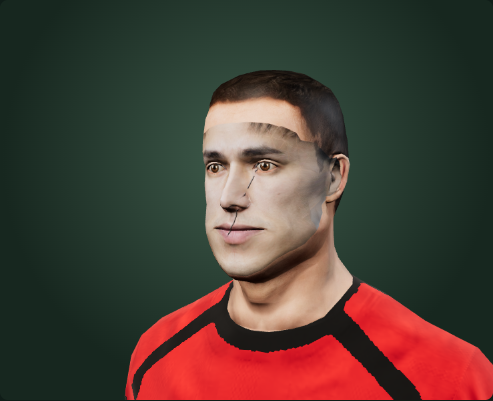
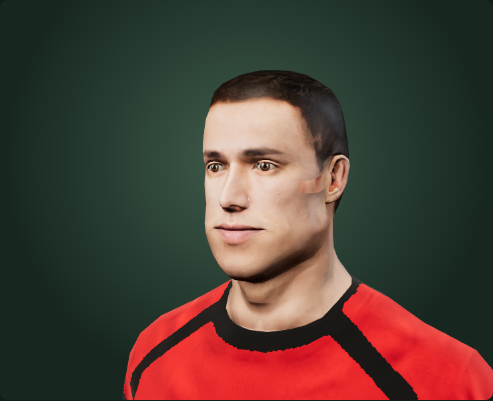
페이스온 삼각형 워핑: 검은 금·회색 얼굴·이마 머리카락·가면 테두리 수정
review 코멘트 4가지를 실제 화면에서 재현하며 고쳤다.

- 검은 금: 인접 삼각형을 독립적으로 clip하면서 경계에 서브픽셀 틈이 생겼다
  (무게중심 기준 1.25px 확장으로 겹쳐 그려 해결). 이와 별개로 일부 눈꺼풀
  랜드마크의 짝인 눈알 랜드마크가 머리 UV에서는 두상과 전혀 다른 별도의
  눈알 텍스처 조각으로 레이캐스트되어, 코 밑에서 화면 밖까지 이어지는 진짜
  가늘고 긴 삼각형이 생겼다(면적 배율 상한만으로는 못 잡음) -- 대상 변의
  길이 상한(N*.12)을 warpTriangles에 추가해 제외했다. 배경도 원본 머리
  텍스처 대신 기존 방식 합성 결과를 먼저 깔아, 제외된 자리에 사진과 무관한
  칠 대신 사진 정보가 있는 색이 비치게 했다.
- 회색 가면: 원인은 따로 있었다. ctx.filter='blur()'가 이 헤드리스 환경에서
  조용히 아무 효과도 내지 않아(에러 없음) 가장자리 마스크가 흐려지지 않은
  채 0/255 경계로 남았고, 그 결과 피부색 보정에 쓰는 경계 표본 구간이 항상
  비어 gain이 항상 1로 고정돼 사진 톤이 그대로 창백하게 보였다. drawImage
  스케일링도 같은 환경에서 보간이 전혀 안 되는 것을 확인해(둘 다 확인용
  테스트로 남기지 않고 코드로 우회), 캔버스 API에 의존하지 않는 순수 배열
  기반 박스 블러(face-uv.js boxBlur1ch)로 교체했다. 이제 경계 표본이 실제
  값을 갖고 채널별 gain이 정상 작동한다.
- 이마 머리카락: 468점 윤곽의 헤어라인 쪽 점을 눈썹 기준 이마 중간 높이로
  당겨 마스크 위쪽을 잘랐다(buildFaceMask).
- 가면 테두리: 마스크를 30px 안쪽으로 오프셋한 뒤 36px 박스 블러 3회로
  넓게 흐려, 옆모습에서도 경계가 오벌 안쪽에서 점진적으로 사라지게 했다.

tests/faces.test.mjs에 boxBlur1ch가 실제 그라디언트를 만드는지(0/255 두
값만 나오던 회귀 재현), 대상 변 길이 상한이 눈알-스와치 삼각형을 잡는지
회귀 테스트를 추가했다. npm test 338개 통과, npm run build 통과.
reports/human-v2/face-landmark-warp-after-*.png를 새 결과로 갱신.

diff --git a/src/human-kit.js b/src/human-kit.js
@@ -3,7 +3,7 @@
 // belongs to. Club colours, pattern, trims, numbers, name, sponsor and crest are applied in the shader, so every
 // club and player shares the same textures and one shader program.
 import * as THREE from 'three';
-import {warpTriangles} from './face-uv.js';
+import {warpTriangles,boxBlur1ch} from './face-uv.js';
 
 // Where each decal is drawn in the per-player canvas (x, y, w, h in pixels of a 512 x 512 canvas).
 const CELLS={backNumber:[0,256,200,256],backName:[0,0,512,128],sponsor:[0,128,256,128],crest:[256,128,128,128],shortsNumber:[384,128,128,128]};
@@ -180,34 +180,55 @@ function composePhotoHeadLegacy(headImage,atlasImage){
  g.putImageData(img,x0,y0);return c;
 }
 // MediaPipe's FACEMESH_FACE_OVAL, in boundary order (forehead, temples, cheeks, jaw, chin): the outer edge of
-// the triangulated warp's blend mask.
+// the triangulated warp's blend mask. Its topmost points sit at the hairline, which a real photo usually
+// shows as hair, not forehead skin -- buildFaceMask below pulls that part down to mid-forehead instead.
 export const FACE_OVAL=[10,338,297,332,284,251,389,356,454,323,361,288,397,365,379,378,400,377,152,148,176,149,150,136,172,58,132,93,234,127,162,21,54,103,67,109];
+const FEATHER_PX=36,INSET_PX=30; // 1024-texture pixels; the transition band lands mostly inside the oval, not past its edge.
+/**
+ * The blend weight for every pixel of the triangle-warped patch (a plain `Float32Array`, 0-255, one value
+ * per pixel): FACE_OVAL with its hairline arc lowered to mid-forehead (so scalp/fringe pixels in the photo
+ * never land on painted forehead skin), inset by INSET_PX and blurred by FEATHER_PX (boxBlur1ch) so the
+ * transition happens inside the oval rather than bleeding past its true edge (visible as a hard ring from
+ * the side otherwise). `dst` is FACE_OVAL's landmarks already in head-texture pixel space.
+ */
+function buildFaceMask(N,dst){
+ const browY=(dst[105][1]+dst[334][1])/2,eyeY=(dst[33][1]+dst[133][1]+dst[362][1]+dst[263][1])/4;
+ const foreheadTop=browY-(eyeY-browY)*1.6;
+ const oval=FACE_OVAL.map(idx=>{const [x,y]=dst[idx];return [x,Math.max(y,foreheadTop)];});
+ const cx=oval.reduce((s,p)=>s+p[0],0)/oval.length,cy=oval.reduce((s,p)=>s+p[1],0)/oval.length;
+ const inset=oval.map(([x,y])=>{const dx=x-cx,dy=y-cy,len=Math.hypot(dx,dy);return len>INSET_PX?[x-dx/len*INSET_PX,y-dy/len*INSET_PX]:[cx,cy];});
+ const sharp=document.createElement('canvas');sharp.width=sharp.height=N;const sg=sharp.getContext('2d');
+ sg.fillStyle='#fff';sg.beginPath();inset.forEach(([x,y],i)=>i?sg.lineTo(x,y):sg.moveTo(x,y));sg.closePath();sg.fill();
+ const alpha=sg.getImageData(0,0,N,N).data,mask=new Float32Array(N*N);
+ for(let p=0;p<mask.length;p++)mask[p]=alpha[p*4];
+ return boxBlur1ch(mask,N,FEATHER_PX/2);
+}
 /**
  * Triangle-warped photo face (src/face-uv.js): the front photo's faceUV bake (canonical MediaPipe UV space,
  * src/face-assets.js bakeFaceUV) is warped triangle by triangle onto this avatar's calibrated head UV
- * positions (assets/human/rocketbox/face-landmarks-uv.json, tools/human/rocketbox/04_raycast_uv.py), then
- * blended over the painted head inside a blurred face-oval mask with the same per-channel skin colour match
- * as the legacy atlas path. Every landmark keeps its own place regardless of the photo's face proportions,
- * unlike headToAtlas's row/column bands.
+ * positions (assets/human/rocketbox/face-landmarks-uv.json, tools/human/rocketbox/04_raycast_uv.py), over a
+ * background already built the legacy way (composePhotoHeadLegacy) so any gap at a skipped triangle or a
+ * clip seam shows a nearby photo-informed pixel instead of raw painted skin. Blended over the painted head
+ * inside buildFaceMask's oval with the same per-channel skin colour match as the legacy atlas path (compared
+ * against the head's own original pixels, not the legacy composite, so the match target is the same either
+ * way). Every landmark keeps its own place regardless of the photo's face proportions, unlike headToAtlas's
+ * row/column bands.
  */
-function composePhotoHeadTriangulated(headImage,faceUVImage,calibrationUV,canonical){
+function composePhotoHeadTriangulated(headImage,atlasImage,faceUVImage,calibrationUV,canonical){
  const N=headImage.width||1024;
  const c=document.createElement('canvas');c.width=c.height=N;const g=c.getContext('2d',{willReadFrequently:true});g.drawImage(headImage,0,0,N,N);
+ const original=g.getImageData(0,0,N,N).data.slice();
  const dst=calibrationUV.map(([u,v])=>[u*N,v*N]);
  const warpCanvas=document.createElement('canvas');warpCanvas.width=warpCanvas.height=N;const wg=warpCanvas.getContext('2d',{willReadFrequently:true});
- wg.drawImage(headImage,0,0,N,N); // fallback for any gap the blurred mask reads just outside the triangle coverage
+ wg.drawImage(composePhotoHeadLegacy(headImage,atlasImage),0,0,N,N); // already photo-informed, so any gap reads close instead of raw painted skin
  const uvN=faceUVImage.width||512,src=canonical.uv.map(([u,v])=>[u*uvN,v*uvN]);
- warpTriangles(wg,faceUVImage,src,dst,canonical.triangles);
+ warpTriangles(wg,faceUVImage,src,dst,canonical.triangles,N*.12); // drops the face-to-eyeball-swatch slivers (src/face-uv.js)
  const warped=wg.getImageData(0,0,N,N).data;
- const sharp=document.createElement('canvas');sharp.width=sharp.height=N;const sg=sharp.getContext('2d');
- sg.fillStyle='#fff';sg.beginPath();FACE_OVAL.forEach((idx,i)=>{const [x,y]=dst[idx];i?sg.lineTo(x,y):sg.moveTo(x,y);});sg.closePath();sg.fill();
- const soft=document.createElement('canvas');soft.width=soft.height=N;const fg=soft.getContext('2d',{willReadFrequently:true});
- fg.filter=`blur(${Math.max(1,Math.round(N*.015))}px)`;fg.drawImage(sharp,0,0);
- const mask=fg.getImageData(0,0,N,N).data;
+ const mask=buildFaceMask(N,dst);
  const img=g.getImageData(0,0,N,N),d=img.data,base=[0,0,0],photo=[0,0,0];let counted=0;
- for(let y=0;y<N;y+=2)for(let x=0;x<N;x+=2){const i=(y*N+x)*4,w=mask[i]/255;if(w<.15||w>.5)continue;for(let k=0;k<3;k++){base[k]+=d[i+k];photo[k]+=warped[i+k];}counted++;}
+ for(let y=0;y<N;y+=2)for(let x=0;x<N;x+=2){const p=y*N+x,i=p*4,w=mask[p]/255;if(w<.15||w>.5)continue;for(let k=0;k<3;k++){base[k]+=original[i+k];photo[k]+=warped[i+k];}counted++;}
  const gain=counted?base.map((b,k)=>photo[k]>0?Math.min(1.6,Math.max(.6,b/photo[k])):1):[1,1,1];
- for(let i=0;i<d.length;i+=4){const w=mask[i]/255;if(w<=0)continue;for(let k=0;k<3;k++)d[i+k]=d[i+k]*(1-w)+Math.min(255,warped[i+k]*gain[k])*w;}
+ for(let p=0;p<mask.length;p++){const w=mask[p]/255;if(w<=0)continue;const i=p*4;for(let k=0;k<3;k++)d[i+k]=original[i+k]*(1-w)+Math.min(255,warped[i+k]*gain[k])*w;}
  g.putImageData(img,0,0);return c;
 }
 /**
@@ -217,6 +238,6 @@ function composePhotoHeadTriangulated(headImage,faceUVImage,calibrationUV,canoni
  * (composePhotoHeadLegacy, headToAtlas/photoWeight), so existing saved players keep rendering the same way.
  */
 export function composePhotoHead(headImage,atlasImage,faceUVImage=null,calibrationUV=null,canonical=null){
- if(faceUVImage&&calibrationUV&&canonical)return composePhotoHeadTriangulated(headImage,faceUVImage,calibrationUV,canonical);
+ if(faceUVImage&&calibrationUV&&canonical)return composePhotoHeadTriangulated(headImage,atlasImage,faceUVImage,calibrationUV,canonical);
  return composePhotoHeadLegacy(headImage,atlasImage);
 }

diff --git a/src/face-uv.js b/src/face-uv.js
@@ -31,24 +31,72 @@ export function triangleTransform(s0, s1, s2, d0, d1, d2) {
 // transform's linear part is exactly the source-to-destination area ratio; triangles beyond this are
 // skipped (the pre-filled background they'd otherwise cover through shows instead -- see callers).
 export const MAX_MAGNIFY = 12;
+// Two independently clipped triangles that share an edge can still leave a hairline gap along it (each
+// clip path rasterizes its own antialiased edge, and the two don't line up to the sub-pixel), which reads
+// as a fine dark mesh of seams over the whole warped patch. Nudging each clip vertex outward from the
+// triangle's own centroid by a fixed pixel amount overlaps neighbouring triangles slightly along every
+// shared edge and closes that gap; it only widens the CLIP region, not the source/destination correspondence
+// the affine transform itself is built from, so alignment is unaffected.
+const CLIP_EXPAND_PX = 1.25;
+function expand(p, cx, cy) {
+	const dx = p[0] - cx, dy = p[1] - cy, len = Math.hypot(dx, dy);
+	return len > 1e-6 ? [p[0] + dx / len * CLIP_EXPAND_PX, p[1] + dy / len * CLIP_EXPAND_PX] : p;
+}
 /**
  * Draws `image` onto `ctx` warped triangle by triangle: each `triangles[i]` (3 landmark indices) is clipped
- * to its destination triangle in `dstPoints` and filled with the matching source triangle of `srcPoints`
- * from `image`. Both point arrays are indexed by the same landmark id (`[[x,y], ...]`, image/canvas pixels).
- * Skips triangles with a degenerate source or destination (can't happen with real landmarks, but a
- * synthetic/corrupt point set should not throw mid-bake) and triangles that would magnify far past
- * MAX_MAGNIFY (see above).
+ * to its destination triangle in `dstPoints` (expanded slightly from its centroid, see CLIP_EXPAND_PX above)
+ * and filled with the matching source triangle of `srcPoints` from `image`. Both point arrays are indexed by
+ * the same landmark id (`[[x,y], ...]`, image/canvas pixels). Skips triangles with a degenerate source or
+ * destination (can't happen with real landmarks, but a synthetic/corrupt point set should not throw
+ * mid-bake), triangles that would magnify far past MAX_MAGNIFY (see above), and -- when `maxEdge` is given
+ * (in the same pixel units as `dstPoints`) -- triangles with a destination edge longer than it. The
+ * Rocketbox head UV has some eyelid landmarks' matching eyeball-surface landmark raycast onto the model's
+ * separate eyeball texture swatch, nowhere near the face; the triangle joining them is a real, moderate-area
+ * sliver (MAX_MAGNIFY alone doesn't catch it) reaching far outside the face -- composePhotoHead passes
+ * maxEdge to drop those.
  */
-export function warpTriangles(ctx, image, srcPoints, dstPoints, triangles) {
+export function warpTriangles(ctx, image, srcPoints, dstPoints, triangles, maxEdge = Infinity) {
 	for (const [i, j, k] of triangles) {
 		const s0 = srcPoints[i], s1 = srcPoints[j], s2 = srcPoints[k], d0 = dstPoints[i], d1 = dstPoints[j], d2 = dstPoints[k];
+		const edge = Math.max(Math.hypot(d0[0] - d1[0], d0[1] - d1[1]), Math.hypot(d1[0] - d2[0], d1[1] - d2[1]), Math.hypot(d2[0] - d0[0], d2[1] - d0[1]));
+		if (edge > maxEdge) continue;
 		let m;
 		try { m = triangleTransform(s0, s1, s2, d0, d1, d2); } catch { continue; }
 		if (Math.abs(m.a * m.d - m.b * m.c) > MAX_MAGNIFY) continue;
+		const cx = (d0[0] + d1[0] + d2[0]) / 3, cy = (d0[1] + d1[1] + d2[1]) / 3;
+		const e0 = expand(d0, cx, cy), e1 = expand(d1, cx, cy), e2 = expand(d2, cx, cy);
 		ctx.save();
-		ctx.beginPath(); ctx.moveTo(d0[0], d0[1]); ctx.lineTo(d1[0], d1[1]); ctx.lineTo(d2[0], d2[1]); ctx.closePath(); ctx.clip();
+		ctx.beginPath(); ctx.moveTo(e0[0], e0[1]); ctx.lineTo(e1[0], e1[1]); ctx.lineTo(e2[0], e2[1]); ctx.closePath(); ctx.clip();
 		ctx.setTransform(m.a, m.b, m.c, m.d, m.e, m.f);
 		ctx.drawImage(image, 0, 0);
 		ctx.restore();
 	}
+}
+
+/**
+ * Separable box blur straight on a single-channel pixel array (a plain `Float32Array`, one value per pixel,
+ * row-major, mutated and returned), `N` pixels square -- never a canvas API. src/human-kit.js's face-oval
+ * blend mask needs this: `ctx.filter = 'blur()'` turned out to silently do nothing in some engines (observed
+ * in headless Chromium -- the mask stayed a hard 0/255 edge, no error, no effect), and even `drawImage`
+ * scaled between two canvases came back with no interpolation at all in the same engine
+ * (imageSmoothingEnabled=true had no effect either), so that mask's softness cannot depend on either. Three
+ * passes at `radius` approximate a gaussian-like falloff of about 2x `radius`.
+ */
+export function boxBlur1ch(a, N, radius) {
+	const r = Math.max(1, Math.round(radius)), span = 2 * r + 1, tmp = new Float32Array(N * N);
+	for (let pass = 0; pass < 3; pass++) {
+		for (let y = 0; y < N; y++) {
+			const row = y * N; let sum = 0;
+			for (let k = -r; k <= r; k++) sum += a[row + Math.min(N - 1, Math.max(0, k))];
+			tmp[row] = sum / span;
+			for (let x = 1; x < N; x++) { sum += a[row + Math.min(N - 1, x + r)] - a[row + Math.max(0, x - r - 1)]; tmp[row + x] = sum / span; }
+		}
+		for (let x = 0; x < N; x++) {
+			let sum = 0;
+			for (let k = -r; k <= r; k++) sum += tmp[Math.min(N - 1, Math.max(0, k)) * N + x];
+			a[x] = sum / span;
+			for (let y = 1; y < N; y++) { sum += tmp[Math.min(N - 1, y + r) * N + x] - tmp[Math.max(0, y - r - 1) * N + x]; a[y * N + x] = sum / span; }
+		}
+	}
+	return a;
 }
